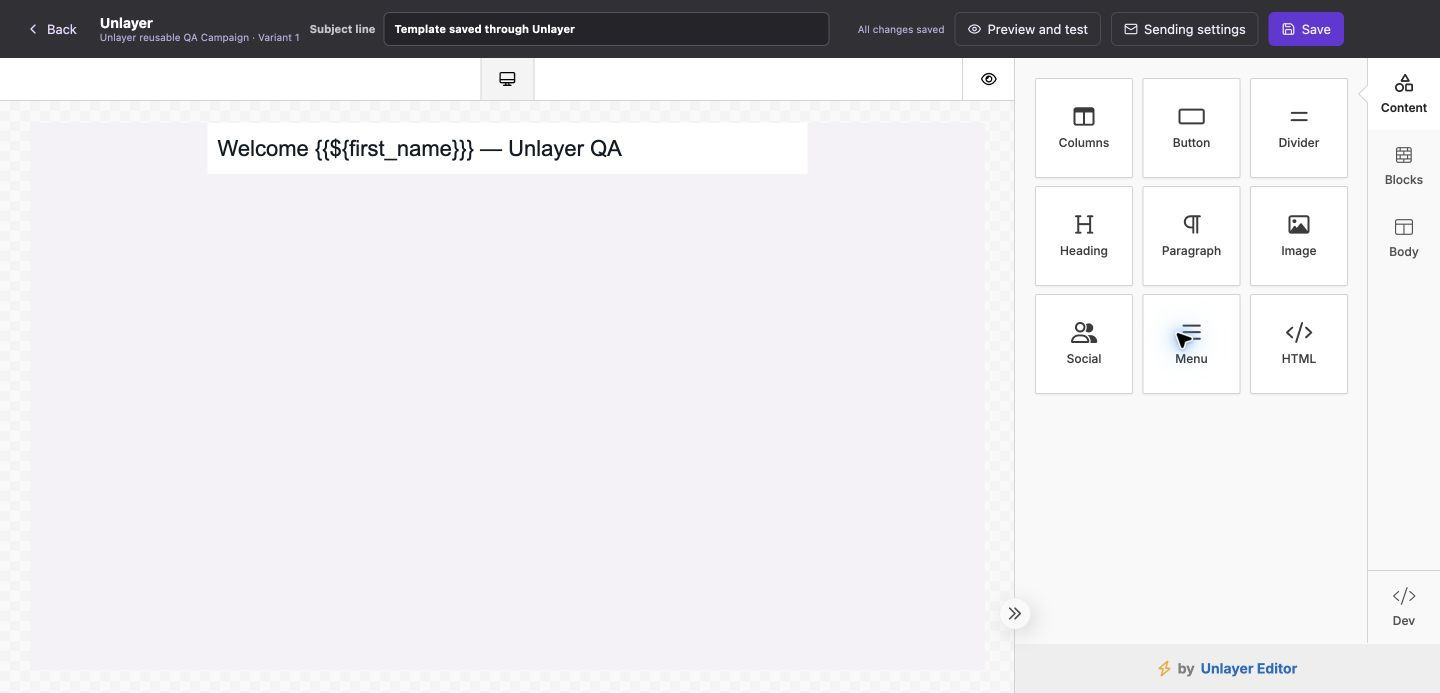
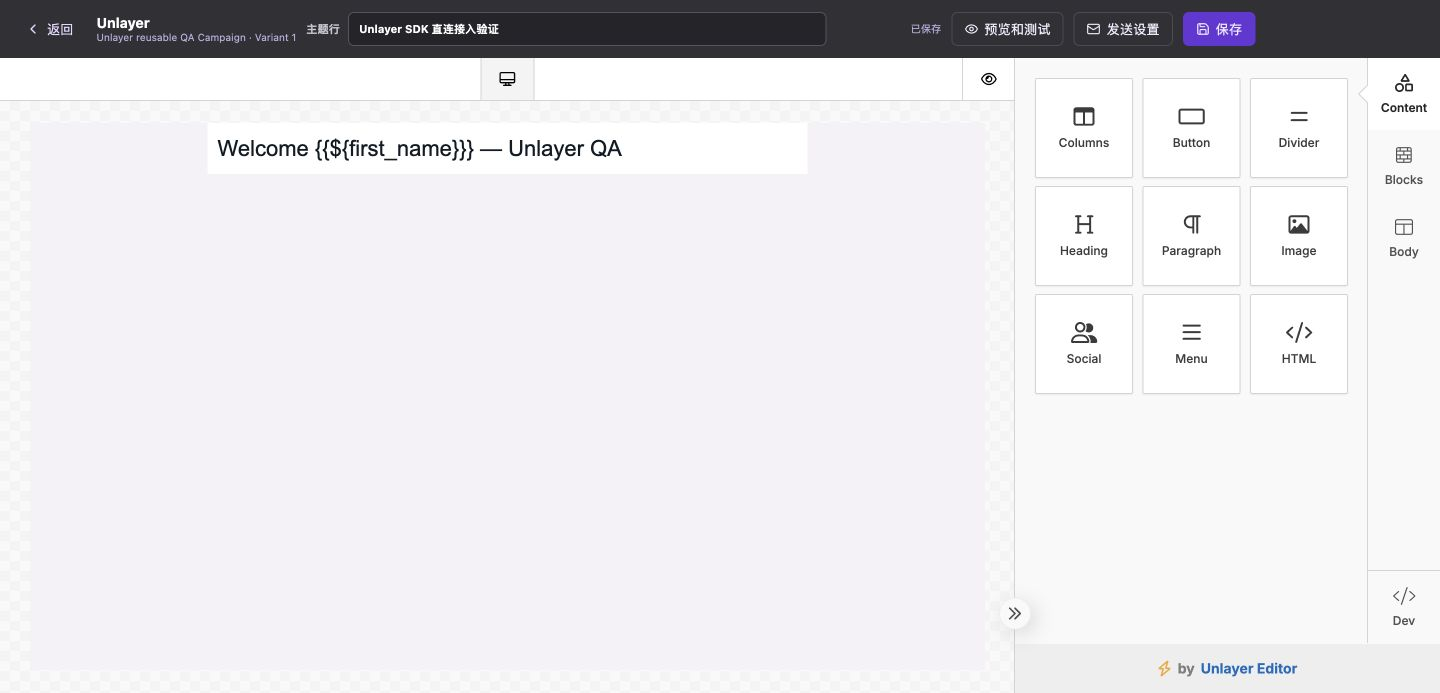
fix: initialize Unlayer directly with its official embed SDK

Changed region(s): [[0.5938, 0.0, 0.9375, 0.0909], [0.0312, 0.0303, 0.4062, 0.0606], [0.8125, 0.4545, 0.8438, 0.5152]]

diff --git a/app/ui/email-unlayer-editor.tsx b/app/ui/email-unlayer-editor.tsx
@@ -1,17 +1,15 @@
 "use client";
 
-import dynamic from "next/dynamic";
-import { useCallback, useEffect, useMemo, useRef, useState } from "react";
+import { useCallback, useEffect, useId, useLayoutEffect, useMemo, useRef, useState } from "react";
 import { ChevronLeft, Eye, Mail, RefreshCw, Save } from "lucide-react";
-import type { EditorRef, EmailEditorProps } from "react-email-editor";
+import type { UnlayerEditor, UnlayerOptions, UnlayerEmbed } from "@unlayer/types";
 import { initialUnlayerDesign, unlayerBuilderVersion, unlayerSavePatch } from "@/lib/unlayer-template";
 import { loadUnlayerScript, resetUnlayerScript, unlayerEmbedUrl, unlayerScriptLoaded } from "@/lib/unlayer-client";
 import { liquidTokens } from "@/lib/email-editor-model";
 import { translate, type Locale } from "@/lib/i18n";
 import styles from "./email-dnd.module.css";
 
-const Builder = dynamic(() => import("react-email-editor"), { ssr: false });
-type Editor = NonNullable<EditorRef["editor"]>;
+type Editor = UnlayerEditor<"email">;
 type CampaignLike = { id: string; name: string; subject?: string; body?: string; config?: Record<string, unknown> };
 type SavePatch = { subject?: string; body?: string; config?: Record<string, unknown> };
 type SaveState = "saved" | "saving" | "unsaved";
@@ -26,27 +24,39 @@ export default function UnlayerEmailEditor({ locale, draft, variantName, save, o
   const [subject, setSubject] = useState(draft.subject ?? ""), [ready, setReady] = useState(false), [saveState, setSaveState] = useState<SaveState>("saved");
   const [scriptReady, setScriptReady] = useState(unlayerScriptLoaded), [started, setStarted] = useState(unlayerScriptLoaded);
   const [loadError, setLoadError] = useState(""), [saveError, setSaveError] = useState(""), [attempt, setAttempt] = useState(0);
-  const sdkRef = useRef<Editor | null>(null), editorRef = useRef<EditorRef>(null), active = useRef(false), loaded = useRef(false), revision = useRef(0), pendingSave = useRef<Promise<boolean> | null>(null);
+  const sdkRef = useRef<Editor | null>(null), hostRef = useRef<HTMLDivElement>(null), active = useRef(false), loaded = useRef(false), revision = useRef(0), pendingSave = useRef<Promise<boolean> | null>(null);
   const timeoutRef = useRef<ReturnType<typeof setTimeout> | undefined>(undefined);
   const current = useRef({ subject, config: draft.config ?? {}, save }); current.current = { subject, config: draft.config ?? {}, save };
+  const editorId = `unlayer-${useId().replaceAll(":", "")}`;
   const version = process.env.NEXT_PUBLIC_UNLAYER_BUILDER_VERSION || unlayerBuilderVersion;
   const [initial] = useState(() => { try { return { ...initialUnlayerDesign(draft.config, draft.body), error: "" }; } catch (e) { return { design: null, imported: false, error: e instanceof Error ? e.message : "Unable to load the saved design." }; } });
-  const options = useMemo<EmailEditorProps["options"]>(() => {
+  const options = useMemo<UnlayerOptions<"email">>(() => {
     const project = process.env.NEXT_PUBLIC_UNLAYER_PROJECT_ID;
     const projectId = project ? Number(project) : undefined;
     const mergeTags = Object.fromEntries(liquidTokens.map((token, index) => [`token_${index}`, { name: `${token.category} · ${token.label}`, value: token.value }]));
     return { displayMode: "email", version, locale: languages[locale], ...(projectId && Number.isSafeInteger(projectId) && projectId > 0 ? { projectId } : {}), appearance: { theme: "modern_light", panels: { tools: { dock: "right" } } }, mergeTags, features: { smartMergeTags: false } };
   }, [locale, version]);
 
-  useEffect(() => {
+  useLayoutEffect(() => {
     active.current = true; loaded.current = false; sdkRef.current = null; setReady(false); setLoadError(initial.error); setSaveError("");
     const project = process.env.NEXT_PUBLIC_UNLAYER_PROJECT_ID;
     if (project && (!Number.isSafeInteger(Number(project)) || Number(project) <= 0)) setLoadError("NEXT_PUBLIC_UNLAYER_PROJECT_ID must be a positive integer.");
     timeoutRef.current = setTimeout(() => { if (active.current && !loaded.current && !initial.error && (started || !unlayerScriptLoaded())) setLoadError(zh ? "Unlayer 加载超时，请检查网络后重试。" : "Unlayer did not finish loading. Check your connection and try again."); }, 60_000);
     const scriptError = (event: Event) => { const target = event.target; if (target instanceof HTMLScriptElement && target.src.startsWith(embedUrl)) { target.dataset.unlayerFailed = "true"; setLoadError(zh ? "无法加载 Unlayer，请检查网络后重试。" : "Unable to load Unlayer. Check your connection and try again."); } };
     window.addEventListener("error", scriptError, true);
-    return () => { active.current = false; loaded.current = false; sdkRef.current = null; clearTimeout(timeoutRef.current); window.removeEventListener("error", scriptError, true); };
-  }, [attempt, initial.error, locale, started, zh]);
+    let editor: Editor | undefined;
+    if (started && scriptReady && hostRef.current && !initial.error && (!project || Number.isSafeInteger(Number(project)) && Number(project) > 0)) {
+      try {
+        const sdk = (window as Window & { unlayer?: UnlayerEmbed }).unlayer;
+        if (!sdk) throw new Error("Unlayer SDK is not ready. Try opening the editor again.");
+        editor = sdk.createEditor<"email">({ ...options, id: editorId });
+        sdkRef.current = editor;
+        const instance = editor;
+        instance.addEventListener("editor:ready", () => onReady(instance));
+      } catch (error) { setLoadError(error instanceof Error ? error.message : "Unable to start Unlayer."); }
+    }
+    return () => { active.current = false; loaded.current = false; sdkRef.current = null; clearTimeout(timeoutRef.current); window.removeEventListener("error", scriptError, true); editor?.destroy(); };
+  }, [attempt, editorId, initial.error, options, scriptReady, started, zh]);
   useEffect(() => {
     let cancelled = false;
     void loadUnlayerScript().then(() => { if (!cancelled) setScriptReady(true); }).catch(error => { if (!cancelled) setLoadError(error instanceof Error ? error.message : "Unable to load Unlayer."); });
@@ -55,8 +65,8 @@ export default function UnlayerEmailEditor({ locale, draft, variantName, save, o
   useEffect(() => { if (saveState === "saved") return; const guard = (event: BeforeUnloadEvent) => { event.preventDefault(); event.returnValue = ""; }; window.addEventListener("beforeunload", guard); return () => window.removeEventListener("beforeunload", guard); }, [saveState]);
 
   const markDirty = () => { if (!loaded.current || !active.current) return; revision.current++; setSaveState(previous => previous === "saving" ? previous : "unsaved"); };
-  const onReady: NonNullable<EmailEditorProps["onReady"]> = editor => {
-    if (!active.current || editorRef.current?.editor !== editor || !initial.design) return;
+  const onReady = (editor: Editor) => {
+    if (!active.current || sdkRef.current !== editor || !initial.design) return;
     sdkRef.current = editor;
     editor.setSpecialLinks([{ name: "Unsubscribe", href: "{{${unsubscribe_url}}}", target: "_blank" }, { name: "Preference center", href: "{{${preference_center_url}}}", target: "_blank" }]);
     editor.addEventListener("design:loaded", () => { if (!active.current || sdkRef.current !== editor) return; clearTimeout(timeoutRef.current); loaded.current = true; setReady(true); setLoadError(""); editor.removeEventListener("design:loaded"); });
@@ -104,7 +114,7 @@ export default function UnlayerEmailEditor({ locale, draft, variantName, save, o
       <button type="button" className={styles.unlayerAction} disabled={!ready || saveState === "saving"} onClick={() => void saveThen(onSendingSettings)}><Mail size={14}/>{translate(locale, "Sending settings")}</button>
       <button type="button" className={styles.unlayerSave} disabled={!ready || saveState === "saving"} onClick={() => void persist()}><Save size={14}/>{translate(locale, "Save")}</button>
     </header>
-    <div className={styles.unlayerHost}>{started && scriptReady && !initial.error && <Builder key={`${attempt}-${locale}`} ref={editorRef} minHeight="100%" style={{ height: "100%", width: "100%" }} options={options} onReady={onReady} scriptUrl={embedUrl}/>}</div>
+    <div className={styles.unlayerHost}><div id={editorId} ref={hostRef}/></div>
     {initial.imported && ready && <div className={styles.unlayerMigration} role="note">{zh ? "原邮件已作为 HTML 内容块导入，可编辑其代码或添加新的内容块。原始设计数据已保留。" : "Your existing email was imported as an HTML block. Edit its code or add new content blocks. The original design is preserved."}</div>}
     {saveError && <div className={styles.unlayerSaveError} role="alert">{saveError}</div>}
     {!ready && !loadError && !initial.error && <div className={styles.unlayerStatus} role="status">{scriptReady && !started ? <><strong>{zh ? "Unlayer 已准备就绪" : "Unlayer is ready"}</strong><button type="button" onClick={() => setStarted(true)}>{zh ? "启动邮件编辑器" : "Open email editor"}</button></> : <><span className={styles.unlayerSpinner}/>{zh ? "正在加载 Unlayer 编辑器…" : "Loading Unlayer editor…"}</>}</div>}

diff --git a/README.md b/README.md
@@ -15,7 +15,7 @@ npm run dev
 
 ### Unlayer 邮件编辑器
 
-新建邮件和邮件模板的 **Drag-and-drop editor** 使用官方 `react-email-editor` 接入 [Unlayer Email Builder](https://docs.unlayer.com/builder/email-builder/quickstart)。基础编辑可不填 Project ID；如需账户配置与付费功能，在 [Unlayer Console](https://console.unlayer.com/) 中获取 Project ID，并在该项目的 Allowed Domains 加入本地和生产域名。
+新建邮件和邮件模板的 **Drag-and-drop editor** 使用官方 `embed.js` SDK 接入 [Unlayer Email Builder](https://docs.unlayer.com/builder/email-builder/quickstart)。基础编辑可不填 Project ID；如需账户配置与付费功能，在 [Unlayer Console](https://console.unlayer.com/) 中获取 Project ID，并在该项目的 Allowed Domains 加入本地和生产域名。
 
 ```dotenv
 NEXT_PUBLIC_UNLAYER_PROJECT_ID=
